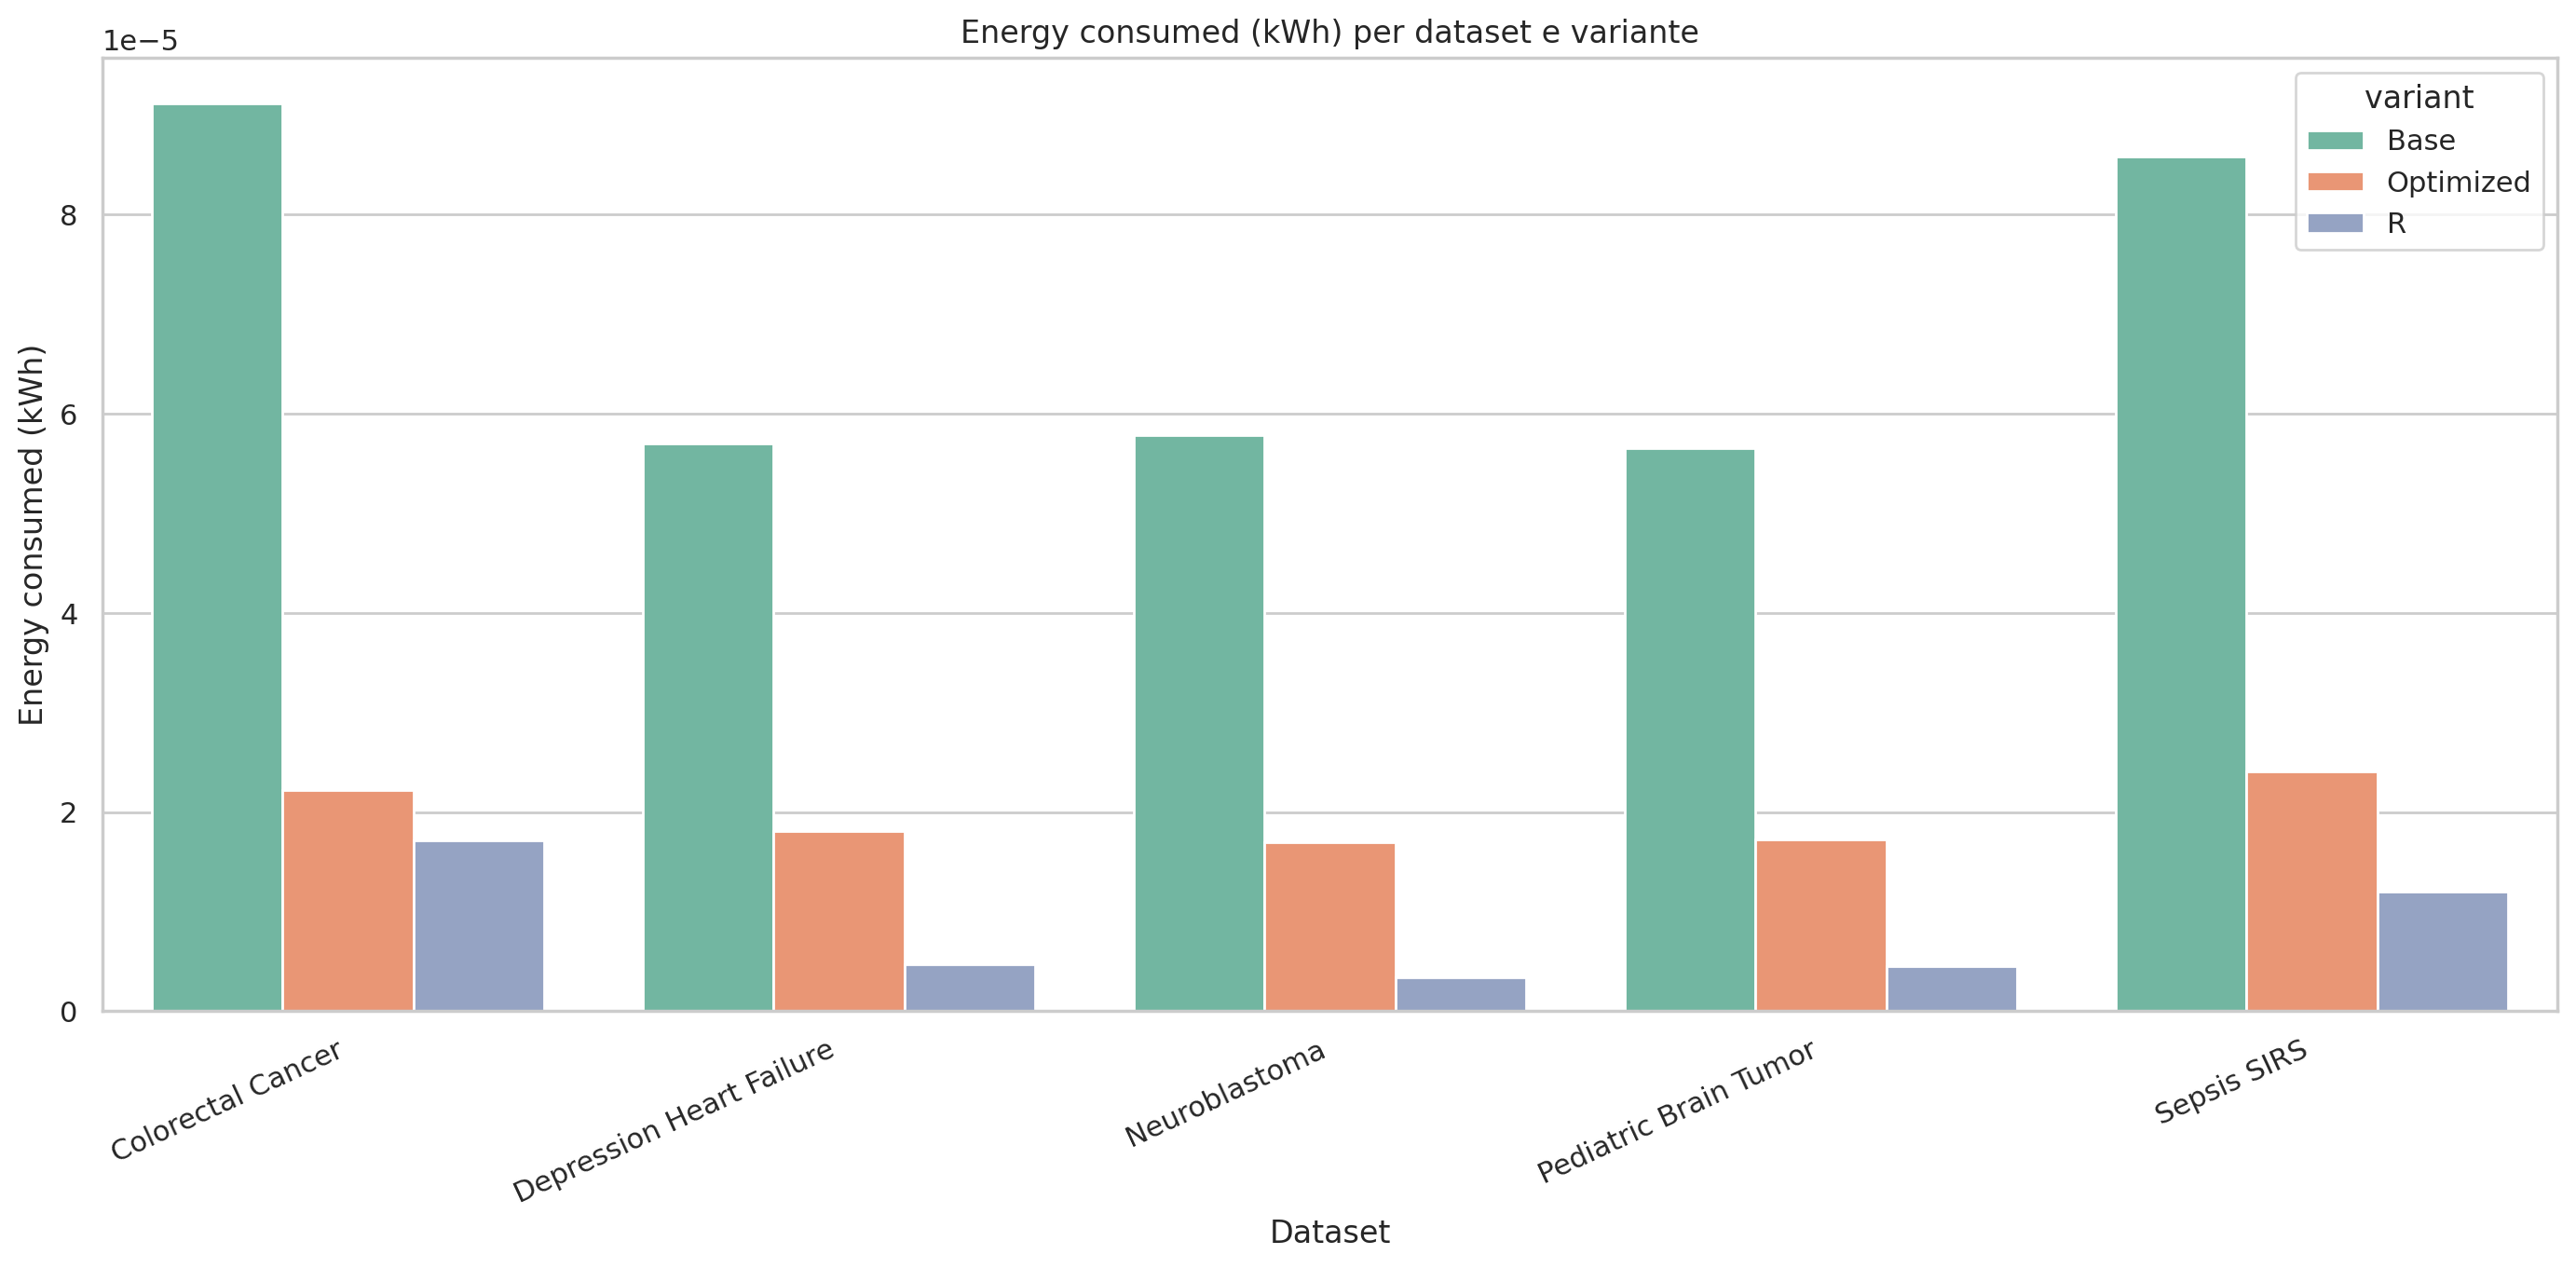
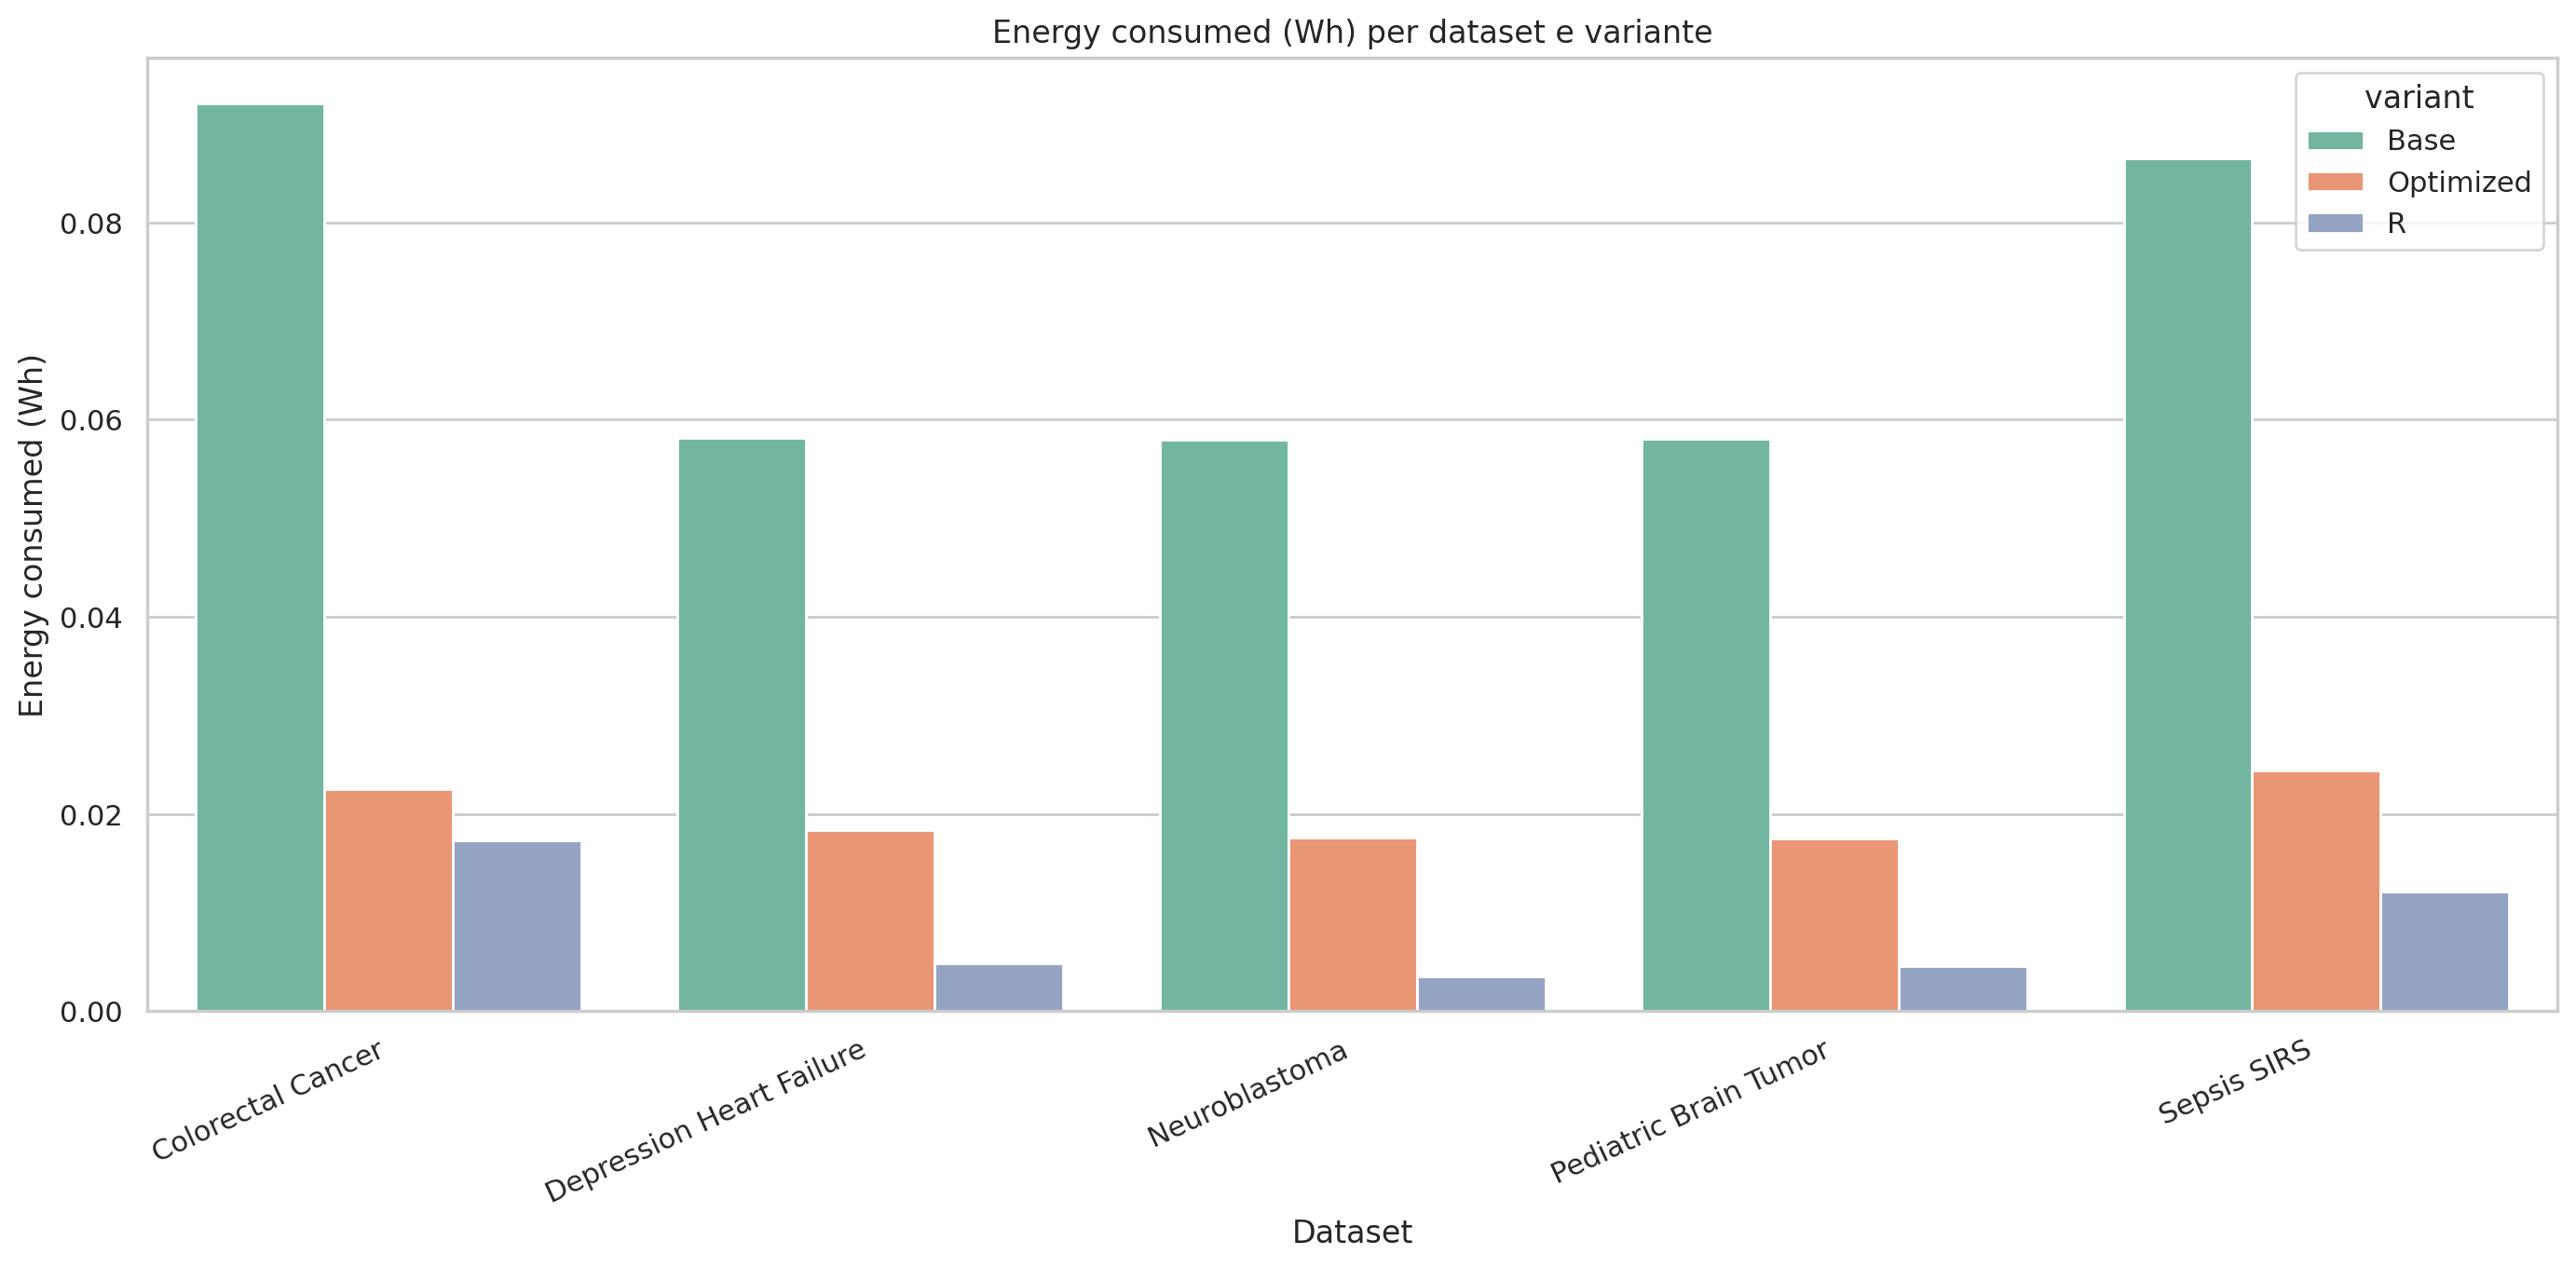
.

diff --git a/plot_results.py b/plot_results.py
@@ -79,6 +79,10 @@ def load_emissions_results(root: Path) -> pd.DataFrame:
             dataset_dir = csv_path.parent.name
             df = pd.read_csv(csv_path)
             df.columns = [c.strip() for c in df.columns]
+            if "energy_consumed" in df.columns:
+                df["energy_consumed"] = df["energy_consumed"] * 1000
+            if "emissions" in df.columns:
+                df["emissions"] = df["emissions"] * 1000
             df["dataset_raw"] = dataset_dir
             df["dataset_label"] = df["dataset_raw"].map(prettify_dataset_name)
             df["variant"] = variant
@@ -130,8 +134,8 @@ def save_training_plot(training_df: pd.DataFrame):
 def save_emissions_plots(emissions_df: pd.DataFrame):
     metrics = [
         ("duration", "Duration (s)", "duration_comparison.png"),
-        ("energy_consumed", "Energy consumed (kWh)", "energy_comparison.png"),
-        ("emissions", "Emissions (kg CO2eq)", "emissions_comparison.png"),
+        ("energy_consumed", "Energy consumed (Wh)", "energy_comparison.png"),
+        ("emissions", "Emissions (g CO2eq)", "emissions_comparison.png"),
     ]
 
     for column, ylabel, filename in metrics:

diff --git a/main_base.py b/main_base.py
@@ -27,6 +27,7 @@ if __name__ == "__main__":
         training_results_csv = os.path.join(dataset_results_dir, "training_results.csv")
         tracker = OfflineEmissionsTracker(
             country_iso_code="ITA",
+            project_name=f"green-computing-py-base-{dataset_name}",
             output_file="emissions_base.csv",
             output_dir=dataset_results_dir,
         )

diff --git a/main_optimized.py b/main_optimized.py
@@ -38,6 +38,7 @@ if __name__ == "__main__":
         training_results_csv = os.path.join(dataset_results_dir, "training_results_optimized.csv")
         tracker = OfflineEmissionsTracker(
             country_iso_code="ITA",
+            project_name=f"green-computing-py-optimized-{dataset_name}",
             output_file="emissions_optimized.csv",
             output_dir=dataset_results_dir,
         )

diff --git a/README.md b/README.md
@@ -1,113 +1,27 @@
-# Green Computing Project
+# Green Computing Final Project
 
-Questo progetto implementa una pipeline di classificazione binaria su dati derivati da cartelle cliniche elettroniche (EHR), misurando le performance e il consumo energetico attraverso [CodeCarbon](https://github.com/mlco2/codecarbon). La pipeline viene eseguita su **tutti e 5 i dataset** forniti.
+## Overview
+This repository contains the software code for the Green Computing final project for the Università di Milano-Bicocca. The goal of the project is to perform binary classification on tabular data derived from electronic health records (EHRs) while measuring and optimizing the project's environmental impact.
 
-## Struttura del Progetto
+According to the project instructions, three distinct approaches are implemented and compared:
+* A baseline Python script performing binary classification.
+* An optimized Python script applying energy-saving strategies to consume less energy, CO2, and time.
+* An R version of the script (`main_r.R`) to compare execution time, CO2-eq consumption, and energy use across different programming languages.
 
-```
-green-computing-project/
-├── five_EHRs_public_datasets/   # I 5 dataset CSV (target = ultima colonna)
-├── results/                     # Output: MCC e metriche per ogni dataset
-│   ├── base_results.csv
-│   ├── optimized_results.csv
-│   └── r_results.csv
-├── main_base.py                 # Script 1: baseline Python (RandomForest, 100 alberi)
-├── main_optimized.py            # Script 2: Python ottimizzato (30 alberi, max_depth=5, n_jobs=-1)
-├── pipeline_utils.py            # Modulo condiviso: caricamento dati, validazione, hold-out
-├── main_r.R                     # Script 3: versione R ottimizzata (eseguita via Docker)
-├── main_r_wrapper.py            # Wrapper Python per misurare le emissioni dello script R
-├── plot_results.py              # Genera i grafici comparativi per il report
-├── Dockerfile                   # Immagine Docker per eseguire main_r.R
-├── emissions_base.csv           # Output CodeCarbon: script baseline
-├── emissions_ottimizzato.csv    # Output CodeCarbon: script ottimizzato
-├── emissions_r.csv              # Output CodeCarbon: script R
-├── run_base.sh                  # Esegue main_base.py
-├── run_optimized.sh             # Esegue main_optimized.py
-├── run_r.sh                     # Builda il container Docker ed esegue main_r.R
-└── run_all.sh                   # Esegue tutti e tre gli script in sequenza
-```
+Classification performance is measured using the Matthews correlation coefficient (MCC) over a repeated hold-out validation with 100 iterations. The energy consumption (in Wh), CO2-eq emissions (in grams), and execution time (in seconds) are tracked using CodeCarbon.
 
-## Requisiti
+## Repository Structure
+* **`five_EHRs_public_datasets/`**: Directory containing the 5 tabular EHR datasets in CSV format (including neuroblastoma, pediatric brain tumors, colorectal cancer, sepsis, and depression/heart failure). The target feature to predict is always the last column on the right.
+* **`main_base.py`**: The baseline Python script for the classification task.
+* **`main_optimized.py`**: The energy-optimized Python script for the classification task.
+* **`main_r.R`**: The R language implementation of the classification task.
+* **`main_r_wrapper.py`**: A Python wrapper designed to track the R script's energy metrics using CodeCarbon.
+* **`pipeline_utils.py` & `plot_results.py`**: Utility scripts containing helper functions and code to generate results plots.
+* **Shell Scripts**: Scripts like `run_all.sh`, `run_base.sh`, `run_optimized.sh`, and `run_r.sh` are provided to automate the execution of the models.
+* **`output/` & `results/`**: Folders containing the evaluation metrics in CSV format and generated graphical comparisons (e.g., `duration_comparison.png`, `emissions_comparison.png`, `energy_comparison.png`, `training_mcc_comparison.png`).
+* **`.gitignore`**: Git exclusion rules.
 
-### Python
-- Python 3.9+
-- Dipendenze:
-
-```bash
-pip install scikit-learn codecarbon pandas numpy
-```
-
-### R (tramite Docker)
-- [Docker](https://www.docker.com/) installato e in esecuzione
-
-## Istruzioni per l'Esecuzione
-
-Prima di eseguire gli script Bash, assicurati che abbiano i permessi di esecuzione:
-
-```bash
-chmod +x run_*.sh
-```
-
-### Eseguire i Modelli Singolarmente
-
-- **Script 1 — Python Baseline:**
-  Avvia il modello non ottimizzato (`main_base.py`) su tutti e 5 i dataset:
-  ```bash
-  ./run_base.sh
-  ```
-
-- **Script 2 — Python Ottimizzato:**
-  Avvia il modello ottimizzato (`main_optimized.py`) su tutti e 5 i dataset:
-  ```bash
-  ./run_optimized.sh
-  ```
-
-- **Script 3 — R via Docker:**
-  Builda l'immagine Docker ed esegue `main_r.R` su tutti e 5 i dataset:
-  ```bash
-  ./run_r.sh
-  ```
-
-### Eseguire Tutto Insieme
-
-Per eseguire l'intera pipeline in sequenza automatica (Baseline → Ottimizzato → R):
-
-```bash
-./run_all.sh
-```
-
-### Generare i Grafici
-
-Dopo aver eseguito tutti gli script, genera i grafici comparativi per il report:
-
-```bash
-python plot_results.py
-```
-
-## Risultati
-
-Al termine delle esecuzioni, nella cartella `results/` troverai:
-
-| File | Contenuto |
-|------|-----------|
-| `base_results.csv` | MCC medio e std per ogni dataset — script baseline |
-| `optimized_results.csv` | MCC medio e std per ogni dataset — script ottimizzato |
-| `r_results.csv` | MCC medio e std per ogni dataset — script R |
-
-Nella root del progetto troverai inoltre i file `emissions_*.csv` generati da CodeCarbon con le misure di **Wh**, **CO₂-eq (grammi)** e **secondi** per ogni script.
-
-## Metodologia
-
-- **Classificatore**: RandomForest
-- **Validazione**: Repeated Hold-Out con 100 iterazioni (seed variabile `random_state=i`)
-- **Test size**: 20% del dataset ad ogni iterazione
-- **Metrica**: Matthews Correlation Coefficient (MCC)
-- **Misura energetica**: [CodeCarbon](https://github.com/mlco2/codecarbon) con `country_iso_code="ITA"`
-- **Dataset**: 5 dataset EHR pubblici in formato CSV — target sempre nell'ultima colonna
-
-## Ottimizzazioni applicate (Script 2 e 3)
-
-- Riduzione del numero di alberi: da 100 a 30 (`n_estimators=30`)
-- Limitazione della profondità massima: `max_depth=5`
-- Parallelizzazione su tutti i core disponibili: `n_jobs=-1`
-- Rimozione delle feature a varianza zero prima del loop (`VarianceThreshold`)
+## How to Run
+You can run the entire evaluation pipeline or individual scripts using the provided bash scripts:
+* Execute `./run_all.sh` to run the baseline, optimized, and R pipelines sequentially.
+* Run `./run_base.sh`, `./run_optimized.sh`, or `./run_r.sh` to execute a specific pipeline and track its respective CodeCarbon footprint.